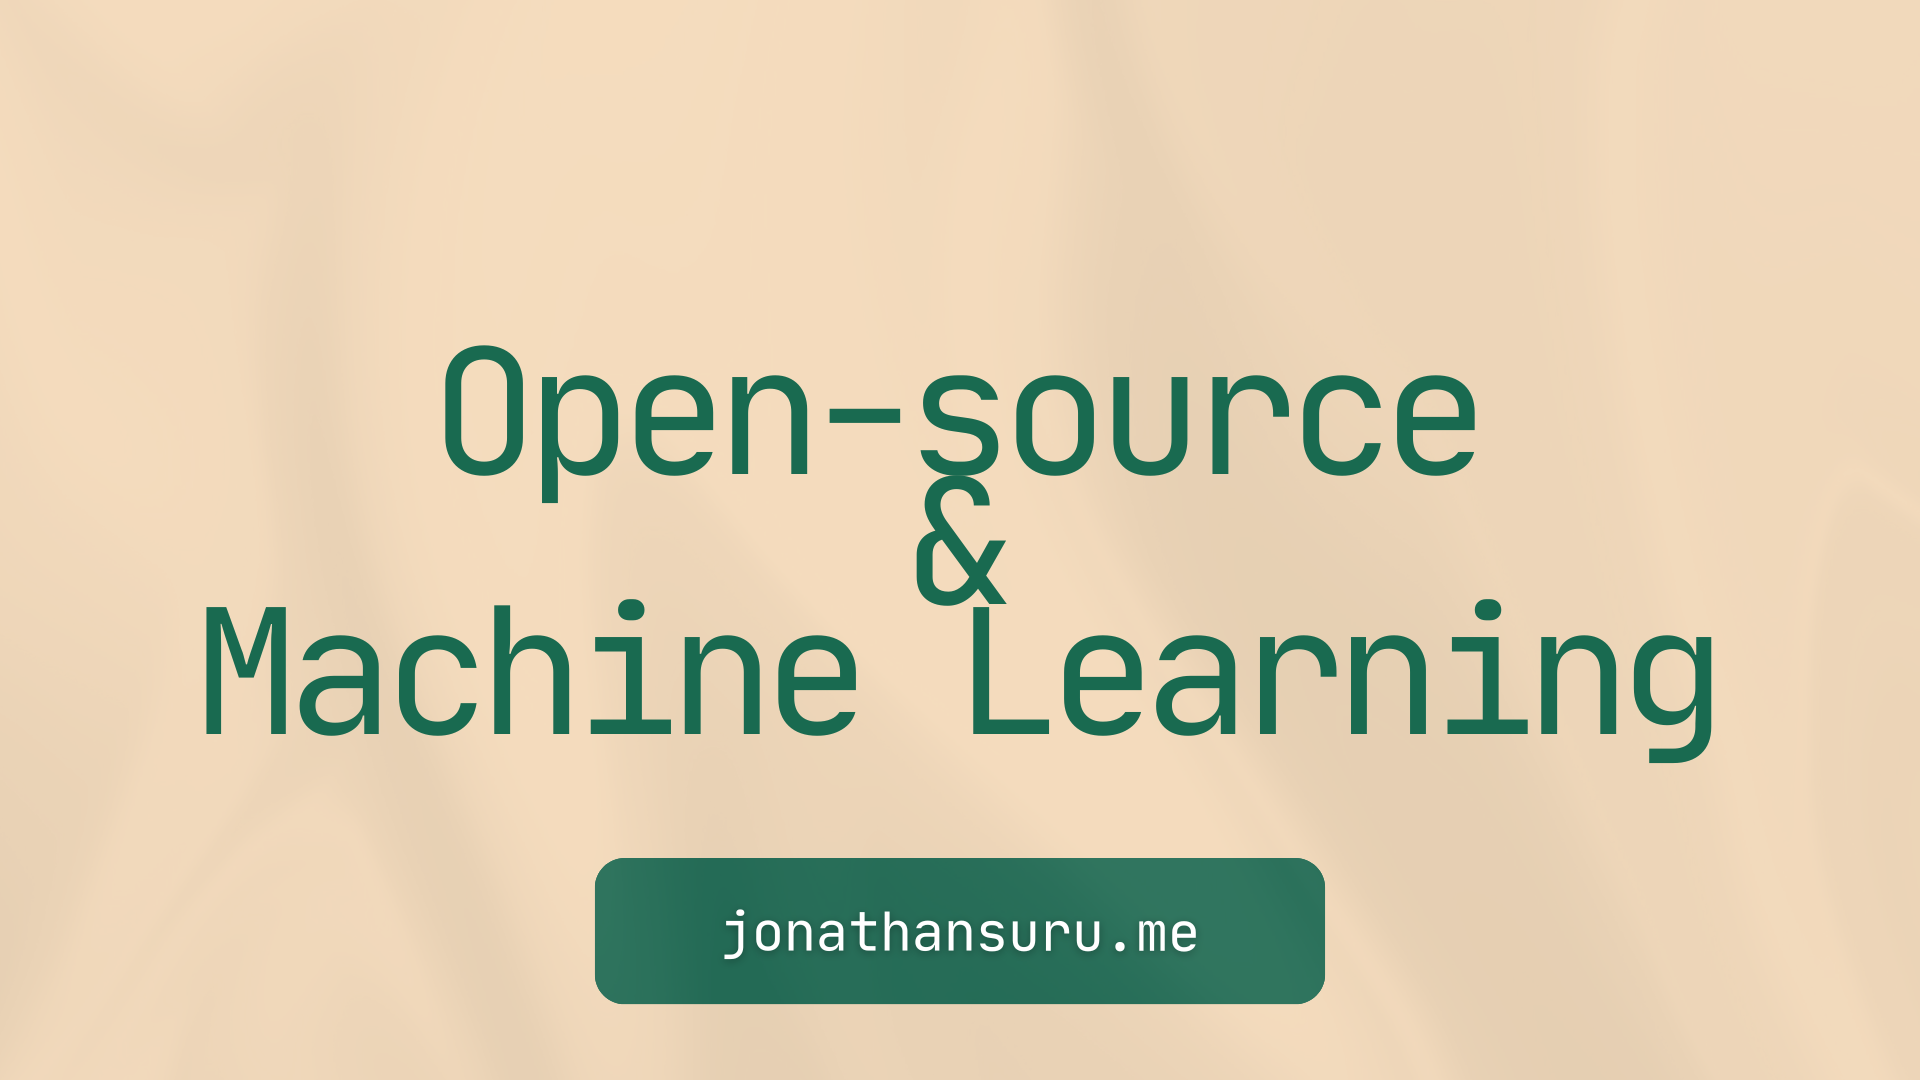
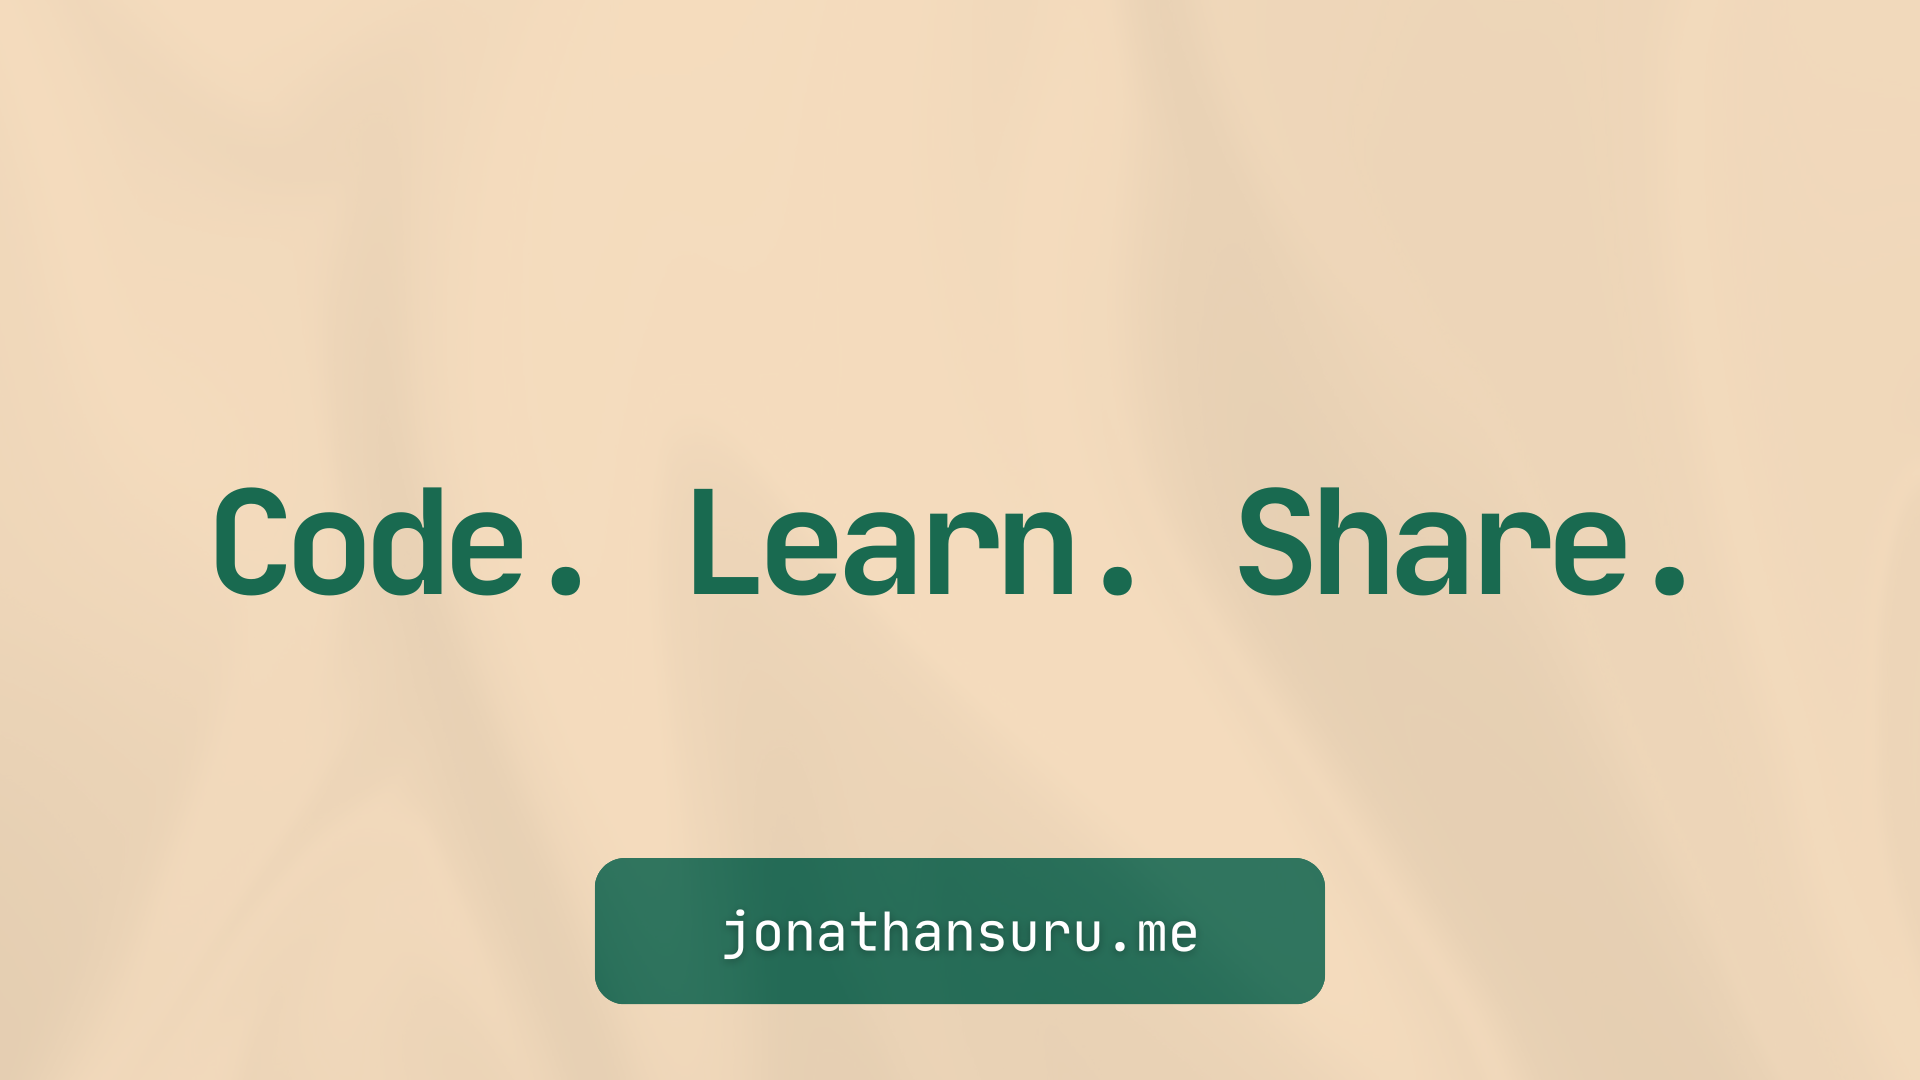
🚀 Add Open Graph metadata and improve article introduction

Changed region(s): [[0.0938, 0.3056, 0.9062, 0.7028]]

diff --git a/articles/rag.html b/articles/rag.html
@@ -2,6 +2,10 @@
 <html lang="fr">
 <head>
     <meta charset="UTF-8">
+    <meta property="og:image" content="https://jonathansuru.me/thumbnail.png"/>
+    <meta property="og:image:alt" content="Code Learn Share" />
+    <meta property="og:image:width" content="1200" />
+    <meta property="og:image:height" content="630" />
     <title>RAG : Le Guide Complet pour des Chatbots Fiables et Intelligents</title>
     <script src="https://polyfill.io/v3/polyfill.min.js?features=es6"></script>
     <script id="MathJax-script" async src="https://cdn.jsdelivr.net/npm/mathjax@3/es5/tex-mml-chtml.js"></script>
@@ -19,17 +23,18 @@
 
 <h1>RAG : Le Guide Complet pour des Chatbots Fiables et Intelligents</h1>
 
-<p>Un chatbot moderne dépasse la simple exécution de règles prédéfinies. Grâce aux grands modèles de langage (LLM), il devient capable de comprendre le langage naturel, de générer des réponses contextuelles, et d’adapter son discours à la complexité d’une conversation. Cependant, les LLM présentent des limites structurelles : connaissances figées à la date d’entraînement, tendance aux hallucinations, absence de contexte métier. Pour déployer un chatbot fiable en production, l’architecture RAG (Retrieval-Augmented Generation) s’impose comme la solution de référence. Cet article décrit les fondamentaux des LLM, les pièges à éviter, et les étapes techniques concrètes pour implémenter un système RAG robuste.</p>
+<p>Les chatbots modernes sont impressionnants, mais ils ont un défaut majeur : on ne peut pas leur faire entièrement confiance. Ils peuvent inventer des réponses, leurs connaissances ont une date limite, et ils ignorent tout de votre entreprise. Heureusement, une architecture nommée RAG (Retrieval-Augmented Generation) permet de surmonter ces obstacles en leur donnant accès à des sources fiables : vos propres documents.</p>
 
-<h2><strong>Anatomie d'un LLM : Les Fondations Techniques</strong></h2>
+<p>Pour vous aider à maîtriser cette approche, <strong>c'est ce que j'ai décidé de faire dans cet article : vous guider pas à pas.</strong> Nous commencerons par décortiquer le moteur des chatbots (les LLM) et leurs limites. Ensuite, nous plongerons au cœur de l'architecture RAG en détaillant ses trois étapes clés : l'indexation, la recherche et la génération. Enfin, nous verrons quels outils utiliser et comment mesurer objectivement la performance pour construire un assistant vraiment fiable.</p>
 
-<p>Pour bien comprendre le RAG, il faut d'abord maîtriser son moteur : les grands modèles de langage (LLM). Ces modèles ne lisent pas des mots, mais des unités appelées <strong>tokens</strong>. En français, un token équivaut en moyenne à 0,75 mot. Leur mémoire, appelée <strong>fenêtre de contexte</strong>, est le nombre maximal de tokens qu'ils peuvent considérer simultanément (votre question, l'historique et leur réponse). Des modèles comme GPT-4 Turbo peuvent gérer l'équivalent d'un petit livre (128 000 tokens), tandis que d'autres sont plus limités. Cette fenêtre est un paramètre critique qui conditionne leur capacité à tenir une conversation longue ou à analyser un document volumineux sans "oublier" le début.</p>
+<h2>Anatomie d'un LLM : Les Fondations Techniques</h2>
 
-<p>Vous pouvez piloter le comportement du modèle avec des paramètres clés. La <strong>température</strong> contrôle la créativité : une valeur faible (ex: 0.2) rend les réponses déterministes et focalisées, idéale pour un usage professionnel où la factualité prime. Une valeur élevée favorise la créativité, mais augmente le risque d'erreurs. Le <strong>max tokens</strong> est une limite essentielle pour maîtriser les coûts et la latence, et le <strong>streaming</strong> est une technique d'affichage qui présente la réponse mot par mot, améliorant drastiquement la fluidité perçue par l'utilisateur.</p>
+<p>Pour bien comprendre le RAG, il faut d'abord maîtriser son moteur : les grands modèles de langage (LLM). Ces modèles ne lisent pas des mots, mais des unités appelées <strong>tokens</strong>. En français, un token équivaut en moyenne à 0,75 mot. Leur mémoire, appelée <strong>fenêtre de contexte</strong>, est le nombre maximal de tokens qu'ils peuvent considérer simultanément (votre question, l'historique et leur réponse). Des modèles comme GPT-5 peuvent gérer l'équivalent d'un livre (400 000 tokens), tandis que d'autres sont plus limités. Cette fenêtre est un paramètre critique qui conditionne leur capacité à tenir une conversation longue ou à analyser un document volumineux sans "oublier" le début.</p>
 
-<p>Le choix du modèle lui-même est une décision stratégique. On distingue les <strong>modèles propriétaires</strong> (GPT-4, Claude, Gemini), accessibles via API mais impliquant l'envoi de données à des tiers, et les <strong>modèles open source</strong> (Llama 3, Mistral), exécutables localement pour une confidentialité totale, au prix d'une expertise technique plus avancée.</p>
 
-<h2><strong>Les Limites Fondamentales des LLM : Pourquoi le RAG est Inévitable</strong></h2>
+<p>Le choix du modèle lui-même est une décision stratégique. On distingue les <strong>modèles propriétaires</strong> (GPT-5, Claude, Gemini), accessibles via API mais impliquant l'envoi de données à des tiers, et les <strong>modèles open source</strong> (Llama 4, Qwen), exécutables localement pour une confidentialité totale, au prix d'une expertise technique plus avancée.</p>
+
+<h2>Les Limites Fondamentales des LLM : Pourquoi le RAG est Inévitable</h2>
 
 <p>Malgré cette puissance, les LLM souffrent de trois limitations structurelles qui les rendent inutilisables "en l'état" pour la plupart des cas d'usage professionnels. La première est leur tendance aux <strong>hallucinations</strong>. Un LLM n'est pas une base de données factuelle ; c'est un modèle probabiliste qui peut "inventer" des faits avec une assurance totale, ce qui est dangereux dans un contexte de support client ou de conseil.</p>
 
@@ -37,17 +42,17 @@
 
 <p>Enfin, il y a l'<strong>absence de contexte métier</strong>. Le LLM connaît le monde en général, mais il ignore tout de <em>votre</em> entreprise : vos procédures internes, votre jargon, les détails de vos produits. Le <em>fine-tuning</em> est souvent mentionné comme une solution, mais il apprend le <em>comment</em> (le style, le ton) et non le <em>quoi</em> (les faits actualisés). Il ne corrige donc pas les hallucinations ni l'obsolescence des connaissances. Le RAG, lui, s'attaque directement à ces problèmes en externalisant la connaissance.</p>
 
-<h2><strong>Stateful vs. Stateless</strong></h2>
+<h2>Stateful vs. Stateless</h2>
 
 <p>Avant de plonger dans le RAG, il est crucial de définir le type d'interaction que vous souhaitez créer, car cela a un impact direct sur l'architecture. Les <strong>chatbots conversationnels (Stateful)</strong> maintiennent un <strong>état</strong> de la conversation. Ils se souviennent de ce que vous avez dit précédemment, ce qui leur permet de comprendre des références comme "celui-ci" ou "plus tard". C'est le modèle parfait pour un support client suivi ou un coach personnel. Techniquement, cela implique de gérer un historique des échanges et de l'injecter dans le prompt à chaque tour, ce qui consomme une partie précieuse de la fenêtre de contexte.</p>
 
 <p>À l'opposé, les <strong>chatbots question-réponse (Stateless)</strong> traitent chaque requête comme une transaction indépendante. Le système n'a aucune mémoire des interactions passées. C'est le modèle idéal pour une FAQ, une recherche dans un manuel technique ou l'interrogation d'une base de connaissances où chaque question est auto-suffisante. L'architecture est plus simple, et la fenêtre de contexte est entièrement dédiée à la question et aux documents récupérés.</p>
 
-<h2><strong>L'Architecture RAG Détaillée</strong></h2>
+<h2>L'Architecture RAG Détaillée</h2>
 
 <p>Le RAG n'est pas une boîte noire, mais un processus élégant et structuré en trois phases distinctes qui transforment un LLM générique en un expert spécialisé. Chaque étape est cruciale et regorge de subtilités techniques qui déterminent la performance finale du système.</p>
 
-<h3><strong>Étape 1 : Indexation</strong></h3>
+<h3>Étape 1 : Indexation</h3>
 
 <p>Cette phase de préparation, qui s'exécute en amont (offline), vise à transformer vos documents bruts en une base de connaissances structurée et consultable par l'IA. La première question à se poser est : comment extraire l'information de ces documents ?</p>
 
@@ -61,7 +66,7 @@
 
 <p>Le cœur de l'indexation est la <strong>vectorisation (Embedding)</strong>. Chaque chunk est passé à travers un modèle d'embedding (ex: <code>GTE-small</code>, <code>bge-large</code>). Ce modèle transforme le texte en un vecteur numérique qui capture la sémantique du texte dans un espace vectoriel multidimensionnel. Il est <strong>impératif d'utiliser exactement le même modèle</strong> pour l'indexation et pour la recherche. Enfin, ces vecteurs sont stockés dans une <strong>base de données vectorielle</strong> (ex: Chroma, Pinecone), optimisée pour la recherche par similarité à grande vitesse.</p>
 
-<h3><strong>Étape 2 : Recherche</strong></h3>
+<h3>Étape 2 : Recherche</h3>
 
 <p>Lorsqu'un utilisateur envoie une requête, le système de recherche entre en action pour trouver les informations les plus pertinentes. Cette étape est bien plus qu'une simple recherche par mots-clés ; elle est le cœur de la pertinence du système RAG.</p>
 
@@ -89,7 +94,7 @@
 <p><strong>Une Précision Fine-grained avec ColBERT</strong><br>
     Pour une précision encore supérieure, notamment sur des requêtes complexes ou des domaines de niche, <strong>ColBERT (Contextualized Late Interaction over BERT)</strong> offre une approche radicalement différente. Au lieu de créer un seul vecteur pour tout un chunk, ColBERT encode chaque passage en une matrice d'embeddings au niveau du token, où chaque mot est représenté par son propre vecteur contextualisé. Au moment de la recherche, la question est également transformée en une matrice de tokens, et ColBERT effectue une comparaison fine-grained, token par token, entre la question et chaque document via des opérateurs de similarité vectorielle efficaces (MaxSim). Cette interaction riche permet à ColBERT de surpasser en qualité les modèles à représentation vectorielle unique, tout en restant performant à grande échelle, ce qui le rend idéal pour trouver des correspondances précises même lorsque le sujet général d'un document diffère de la requête.</p>
 
-<h3><strong>Étape 3 : Génération </strong></h3>
+<h3>Étape 3 : Génération</h3>
 
 <p>Cette dernière étape utilise le LLM comme un moteur de raisonnement, pas comme une base de connaissances. Les chunks pertinents récupérés à l'étape 2 sont injectés dans un <strong>prompt</strong> structuré. L'ingénierie de ce prompt est un art en soi. Un bon prompt RAG contient plusieurs composantes clés :</p>
 <ol>
@@ -102,44 +107,27 @@
 
 <p>Pour un chatbot <strong>stateful</strong>, le prompt est enrichi avec un résumé de l'historique de la conversation. Pour éviter que l'historique ne consomme toute la fenêtre de contexte, une technique courante est d'utiliser un LLM pour <strong>résumer les échanges plus anciens</strong>. Une fois le prompt construit, le LLM génère la réponse avec des paramètres ajustés pour la fiabilité (<code>temperature=0.2</code>). Enfin, une couche de <strong>post-traitement</strong> est appliquée : citation des sources, validation par des règles métier via <strong>Guardrails AI</strong>, ou anonymisation des données avec <strong>Microsoft Presidio</strong>.</p>
 
-<h2><strong>La Boîte à Outils RAG : Un Stack de Référence</strong></h2>
+<h2>La Boîte à Outils RAG : Un Stack de Référence</h2>
 
 <p>Pour construire un système RAG robuste, un écosystème d'outils mature existe. Pour l'<strong>orchestration</strong>, <strong>LangChain</strong> et <strong>LlamaIndex</strong> sont des standards. Pour le <strong>parsing</strong>, des services comme <strong>LlamaParse</strong> sont spécialisés dans la conversion de documents complexes. Les <strong>modèles d'embedding</strong> comme <strong>GTE</strong> et <strong>bge</strong> sont performants. La <strong>base de données vectorielle</strong> peut être <strong>Chroma</strong> pour le développement, et <strong>Pinecone</strong> ou <strong>Weaviate</strong> pour la production. Pour exécuter des <strong>LLM</strong> localement, <strong>Ollama</strong> est idéal pour tester, tandis que <strong>vLLM</strong> est plus performant pour la production. Enfin, pour affiner la précision, des outils de <strong>ré-rank</strong> comme <strong>Cohere Rerank</strong> ou <strong>bge-reranker</strong> sont indispensables.</p>
 
-<h2><strong>Évaluation : Mesurer Objectivement la Performance</strong></h2>
+<h2>Évaluation : Mesurer Objectivement la Performance</h2>
 
 <p>Construire un RAG est une chose, mais mesurer sa performance en est une autre, fondamentale. L'évaluation doit être systématique et basée sur des métriques. Le processus consiste à créer un "golden dataset" (un jeu de questions-réponses de référence), à exécuter votre système dessus, puis à calculer des métriques clés. On évalue le <em>retriever</em> avec des métriques comme la <strong>Precision@k</strong> et le <em>générateur</em> avec la <strong>Faithfulness</strong> (la réponse est-elle soutenue par le contexte ?) et l'<strong>Answer Relevancy</strong> (la réponse est-elle pertinente ?). Des frameworks comme <strong>Ragas</strong> ou <strong>LangSmith</strong> automatisent ce processus et sont devenus indispensables pour le développement itératif.</p>
 
-<h2><strong>Sécurité : Gardez le Contrôle de Votre Système</strong></h2>
+<h2>Sécurité : Gardez le Contrôle de Votre Système</h2>
 
 <p>Un système RAG introduit de nouvelles surfaces d'attaque. La sécurité doit être pensée à chaque étape. La <strong>sécurité des entrées</strong> vise à contrer les attaques par <em>prompt injection</em>. La <strong>sécurité des sorties</strong> est cruciale pour éviter les fuites de données ; des outils comme <strong>Microsoft Presidio</strong> peuvent détecter et masquer les informations personnelles (PII). Il faut aussi s'assurer que les réponses respectent les règles métier, ce que des frameworks comme <strong>Guardrails AI</strong> peuvent valider. Enfin, la <strong>sécurité des données</strong> impose un chiffrement au repos et en transit, et surtout un contrôle d'accès fin, souvent géré via les métadonnées pour filtrer les résultats selon les permissions de l'utilisateur.</p>
 
-<em>
-<p>
-    J’ai conçu l' <strong>AI Prototype Pack</strong> pour vous aider à passer de l’idée au prototype en IA sans perdre de temps : accès à des LLM, GPU, APIs, outils de parsing, bases vectorielles… le tout avec des crédits gratuits, des conseils de sécurité et des liens prêts à l’emploi.
-</p>
-<p>
-    Parfait pour les développeurs, étudiants et passionnés qui veulent créer, pas configurer.
-</p>
-<p>
-    🎁 <strong>Téléchargez-le gratuitement ici :</strong> <a href="https://openlabs.mychariow.shop/prd_5re50b">Ici</a>
-</p>
-</em>
-<h2><strong>Conclusion : Le RAG, une Nécessité pour une IA de Confiance</strong></h2>
+<p> Pour vous aider à passer à l'action, j'ai rassemblé le <strong>AI Prototype Pack</strong>. Il contient tout le nécessaire pour démarrer : accès aux LLM, GPU, crédits gratuits et liens prêts à l'emploi. Parfait pour ceux qui veulent créer, pas configurer. <br><br> 🎁 <strong>Téléchargez-le gratuitement ici :</strong> <a href="https://openlabs.mychariow.shop/prd_5re50b">Ici</a> </p>
+<h2>Conclusion : Le RAG, une Nécessité pour une IA de Confiance</h2>
 
 <p>Le RAG n'est plus une option, mais une composante essentielle pour déployer des LLM en production. Il résout le dilemme fondamental de la puissance brute contre la fiabilité. En combinant la capacité de raisonnement des LLM avec la précision de vos propres données, et en l'entourant de couches de sécurité et d'évaluation rigoureuses, le RAG vous permet de construire des assistants qui ne se contentent pas de parler, mais qui aident, informent et prennent des décisions éclairées. Le chemin vers une IA d'entreprise est tracé. Il est technique, mais parfaitement maîtrisable. Alors, prêt à construire votre prochain chatbot fiable, intelligent et digne de confiance ?</p>
 
-<h2>Liens Utiles</h2>
-<p>Pour approfondir vos connaissances et explorer des outils avancés, voici quelques ressources :</p>
-<ul>
-    <li><a href="https://medium.com/@EliasWalyBa/introduction-aux-algorithmes-évolutionnaires-429bc2c79652"> Introduction aux algorithmes évolutionnaires</a> de Elias W. BA </li>
-    <li><a href="https://www.enseignement.polytechnique.fr/profs/informatique/Eric.Goubault/poly/cours009.html">Chapter 8    Algorithmes évolutionnaires et problèmes inverses</a> </li>
-    <li><a href="https://github.com/5uru/OpenLabs/tree/main/algorithme_evolusioniste">Mon Code</a></li>
-</ul>
 
 <div class="music-suggestion">
     <p>Ma recommandation musicale du jour : à écouter sans modération !</p>
-    <a href="https://www.youtube.com/watch?v=9PukqhfMxfc" target="_blank">Écouter sur YouTube</a>
+    <a href="https://www.youtube.com/watch?v=3FXcxJ-JuVQ" target="_blank">Écouter sur YouTube</a>
 </div>
 
 <footer>

diff --git a/index.html b/index.html
@@ -4,7 +4,7 @@
     <meta charset="UTF-8">
     <meta name="viewport" content="width=device-width, initial-scale=1.0">
     <meta property="og:image" content="https://jonathansuru.me/thumbnail.png"/>
-    <meta property="og:image:alt" content="Open-source & Machine Learning" />
+    <meta property="og:image:alt" content="Code Learn Share" />
     <meta property="og:image:width" content="1200" />
     <meta property="og:image:height" content="630" />
     <title>Jonathan Suru</title>
@@ -27,6 +27,11 @@
         <a href="https://openlabs.mychariow.shop/prd_5re50b" target="_blank" rel="noopener">Télécharger</a>
     </div>
 
+    <article>
+
+        <h3><a href="articles/rag.html">RAG : Le Guide Complet pour des Chatbots Fiables et Intelligents.</a></h3>
+        <p class="article-meta">Publié le : 16 octobre 2025 </p>
+    </article>
     <article>
 
         <h3><a href="articles/algorithme_évolutionniste.html">Algorithmes évolutionnaires.</a></h3>
